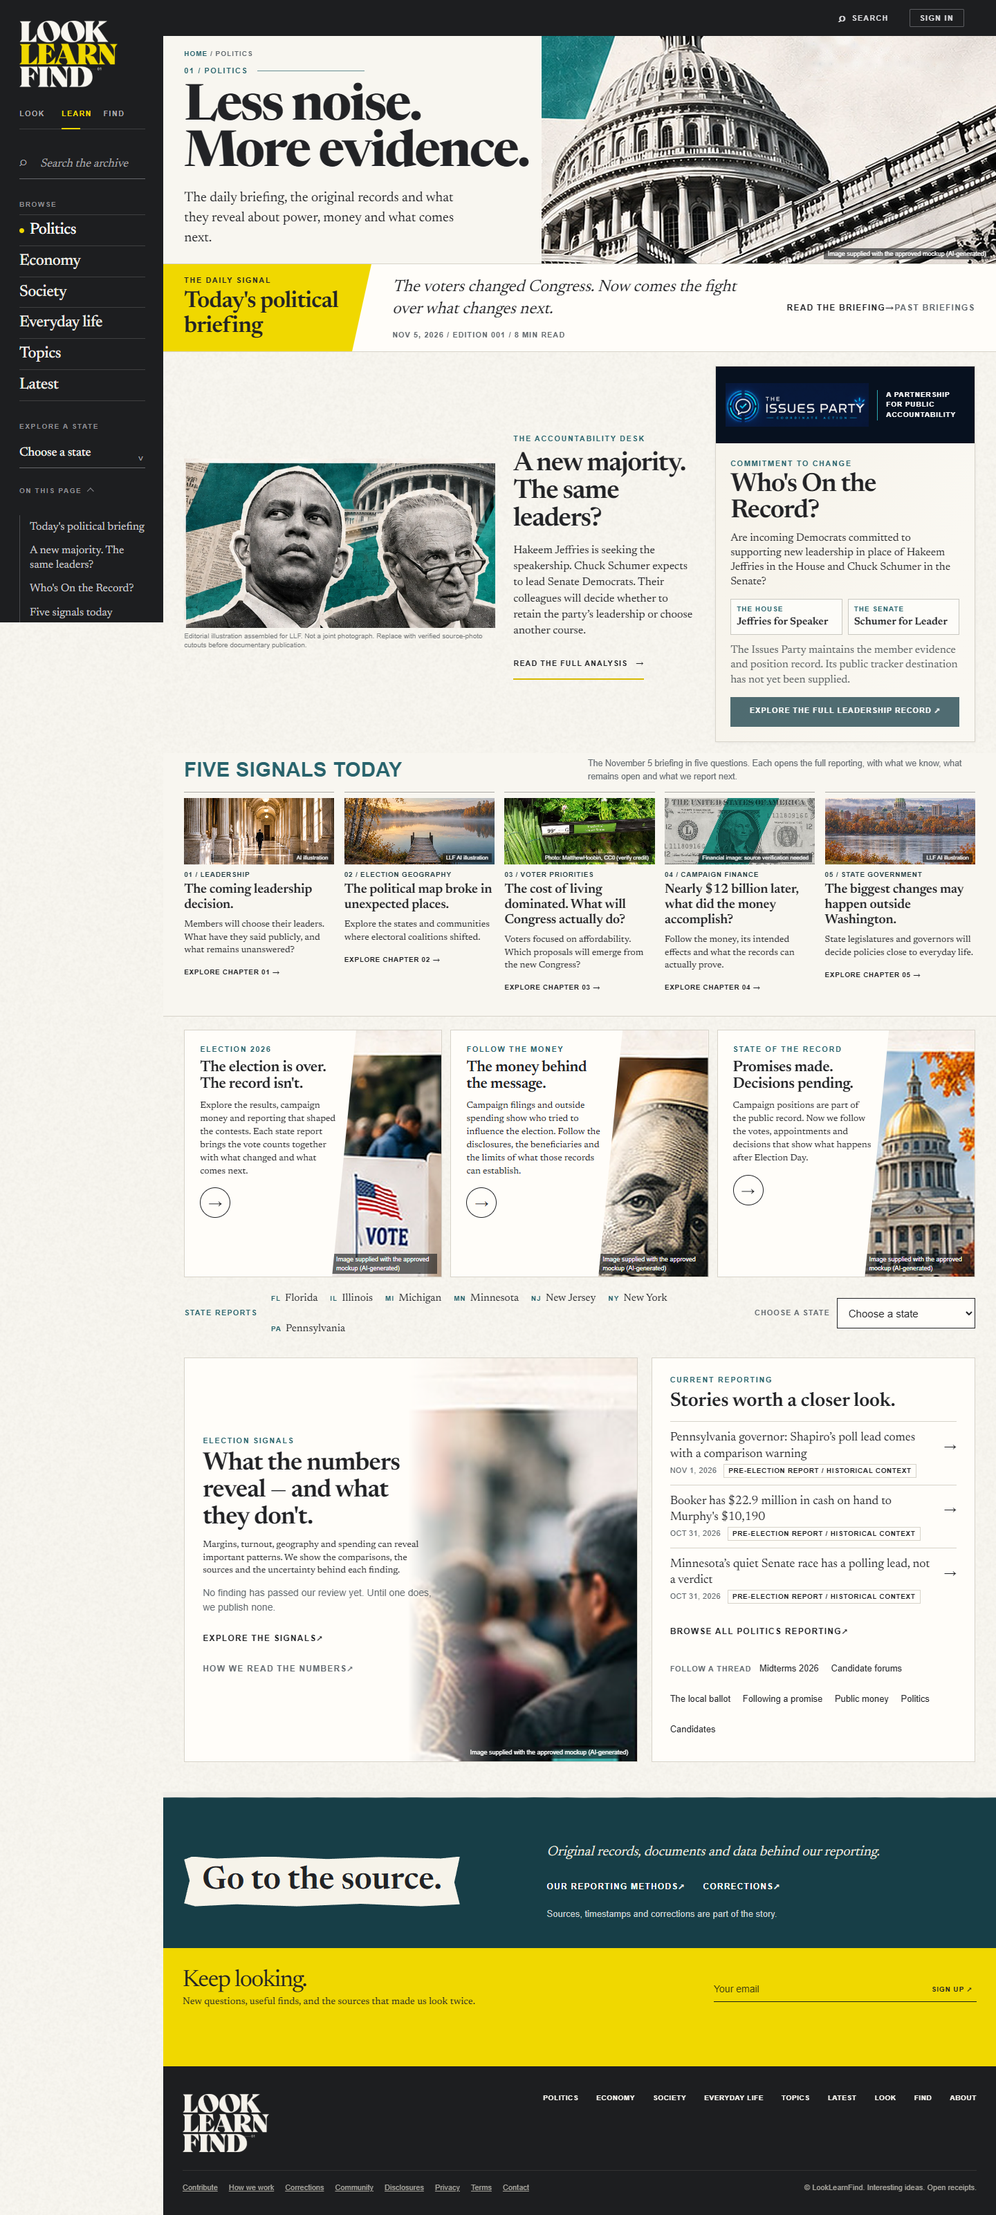
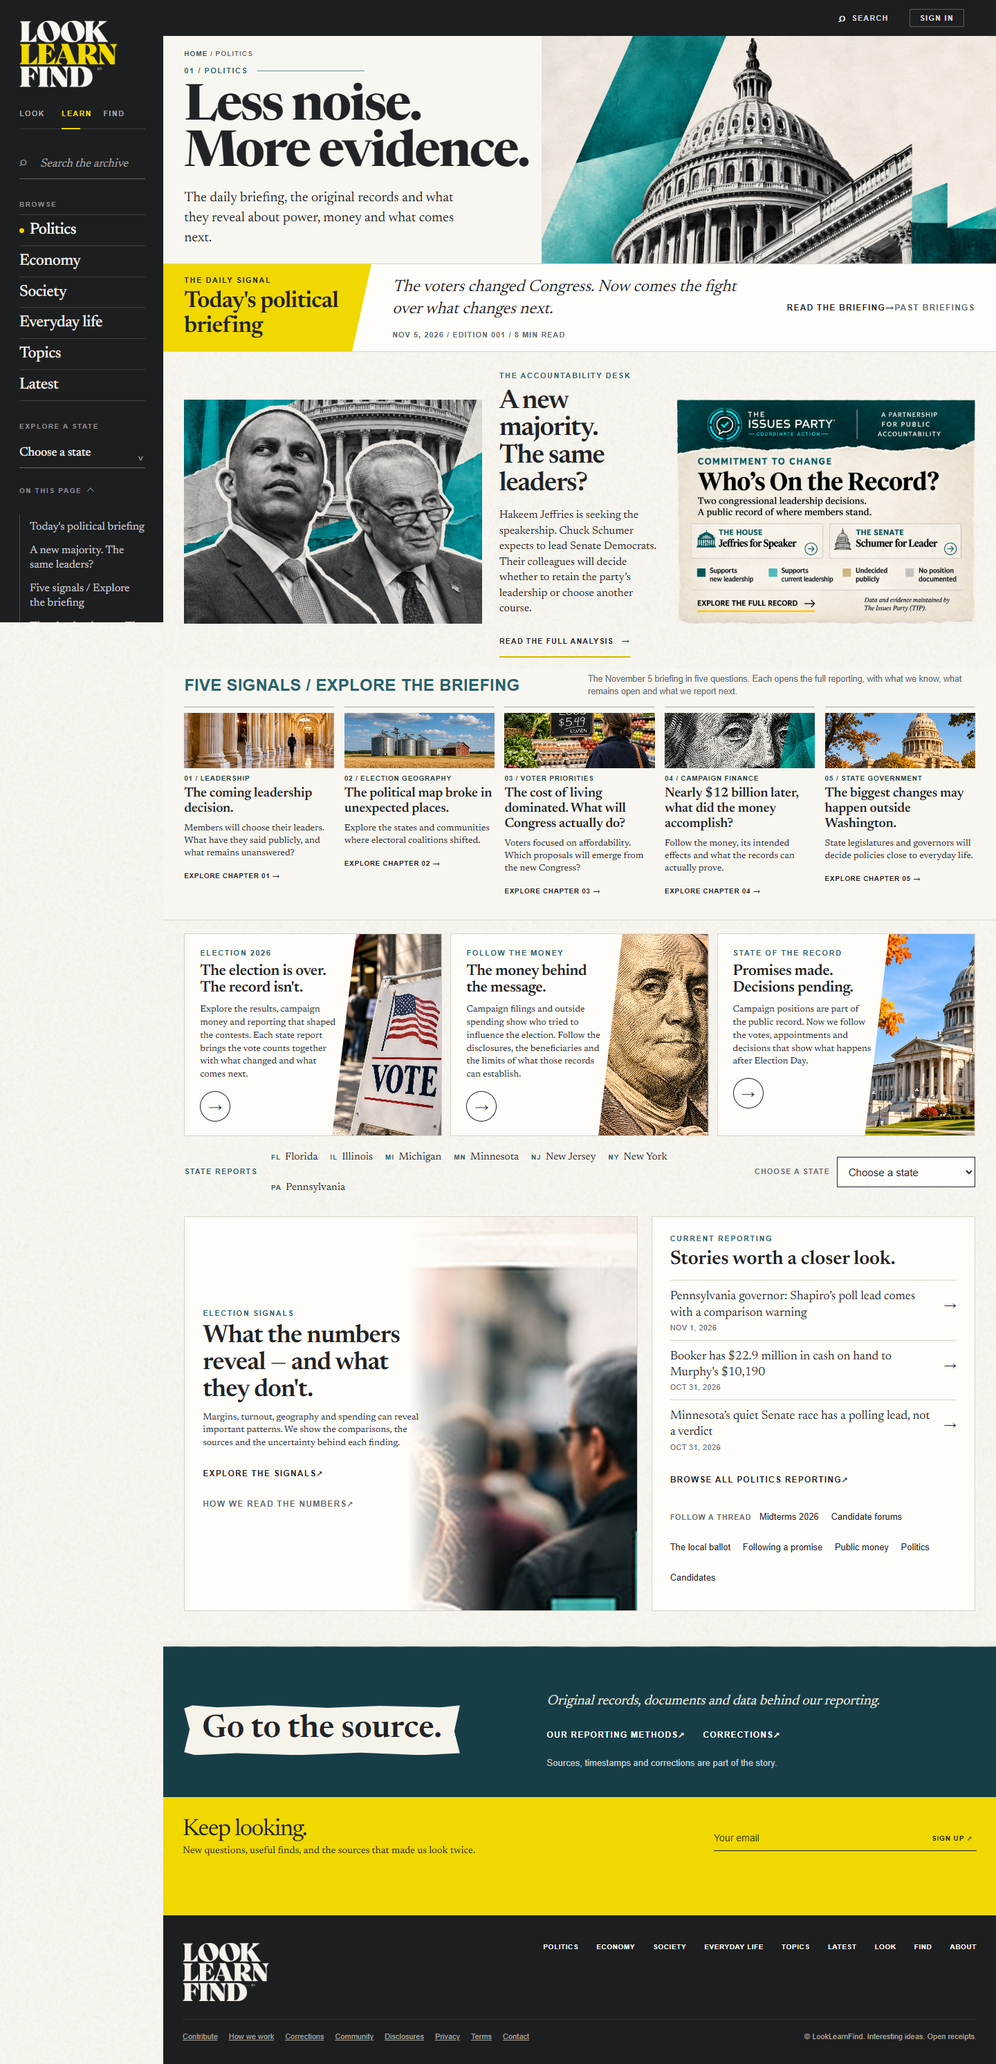
Politics homepage V6: genuine source images (hero, feature, TIP panel, five signals, lower tiles) and V6 stylesheet

Changed region(s): [[0.0, 0.0, 1.0, 0.997], [0.8438, 0.0, 0.875, 0.0312], [0.3438, 0.9658, 0.375, 0.997]]

diff --git a/static/css/politics-homepage-v6.css b/static/css/politics-homepage-v6.css
@@ -32,7 +32,7 @@ body.pol-home .pol-feature-v4 {
 }
 body.pol-home .pol-feature-v4 > * {min-width:0;}
 body.pol-home .pol-feature-v4__photo {margin:0;align-self:stretch;display:flex;flex-direction:column;justify-content:center;}
-body.pol-home .pol-feature-v4__photo img {width:100%;height:auto;aspect-ratio:1737/945;object-fit:cover;display:block;}
+body.pol-home .pol-feature-v4__photo img {width:100%;height:auto;aspect-ratio:1.45;object-fit:cover;display:block;}
 body.pol-home .pol-feature-v4__photo figcaption {color:#777a7b;font:10px/1.3 Arial,sans-serif;margin-top:5px;max-width:80ch;}
 body.pol-home .pol-feature-v4__analysis {padding-top:7px;align-self:center;}
 body.pol-home .pol-feature-v4__analysis .pol-eyebrow {margin:0 0 11px;}
@@ -109,3 +109,53 @@ body.pol-home .pol-tile__d {font-size:13px;}
  body.pol-home .pol-teaser__t,body.pol-home .pol-teaser:first-child .pol-teaser__t {font-size:24px;}
  body.pol-home .pol-teaser__s {font-size:15px;}
 }
+
+/* Approved-reference V5, loaded after site, shell and politics CSS. */
+body.pol-home .pol-feature-v4{grid-template-columns:minmax(0,1.26fr) minmax(0,.68fr) minmax(0,1.26fr);gap:clamp(14px,1.7vw,30px)}
+body.pol-home .pol-feature-v4__photo img{aspect-ratio:507/346;object-fit:cover}
+body.pol-home .pol-feature-v4__analysis h2{font-size:clamp(28px,2.65vw,43px)}
+body.pol-home .pol-feature-v4__analysis>p:not(.pol-eyebrow){font-size:clamp(14px,1.1vw,17px)}
+body.pol-home .pol-feature-v5__tip{background:transparent!important;border:0!important;box-shadow:none!important;align-self:center!important;display:block!important;min-width:0}
+body.pol-home .pol-feature-v5__tip-art{width:100%;height:auto;display:block}
+body.pol-home .pol-feature-v5__status{font:10px/1.35 Arial,sans-serif;color:#6f7779;margin:3px 5px 0;text-align:right}
+body.pol-home .pol-teaser__pic{aspect-ratio:250/92}
+body.pol-home .pol-teaser__pic img{width:100%;height:100%;object-fit:cover;display:block}
+body.pol-home .pol-teasers__head h2{font-size:clamp(20px,1.65vw,25px)}
+body.pol-home .pol-teaser__pic .pol-credit{display:none!important}
+@media(min-width:1400px){body.pol-home .pol-hero__in,body.pol-home .pol-daily__in,body.pol-home .pol-teasers__in,body.pol-home .pol-tiles,body.pol-home .pol-statebar,body.pol-home .pol-duo-row{max-width:none}body.pol-home .pol-feature-v4{width:100%;max-width:none}}
+@media(max-width:1350px){body.pol-home .pol-feature-v4{grid-template-columns:1.2fr .85fr}body.pol-home .pol-feature-v5__tip{grid-column:1/-1;width:min(620px,100%);justify-self:center}}
+@media(max-width:900px){body.pol-home .pol-feature-v4{grid-template-columns:1fr 1fr}}
+.pol-tip-v5-mobile{display:none}
+@media(max-width:640px){
+body.pol-home .pol-feature-v4{grid-template-columns:1fr}body.pol-home .pol-feature-v5__tip{grid-column:1;max-width:515px}
+body.pol-home .pol-feature-v5__tip-art,body.pol-home .pol-feature-v5__status{display:none}
+.pol-tip-v5-mobile{display:block;background:#f2eee5;box-shadow:0 1px 6px #0002}
+.pol-tip-v5-mobile__brand{min-height:87px;background:#075661;color:#fff;padding:10px 14px;display:grid;grid-template-columns:1.65fr 1fr;gap:12px;align-items:center}
+.pol-tip-v5-mobile__brand img{width:100%;height:auto;mix-blend-mode:screen}
+.pol-tip-v5-mobile__brand span{border-left:1px solid #adcbd1;padding-left:10px;font:700 10px/1.35 Arial,sans-serif;letter-spacing:.09em;text-transform:uppercase}
+.pol-tip-v5-mobile__paper{background:linear-gradient(160deg,#f2eee5,#fffdf7 65%,#eae5d9);padding:18px 18px 23px;clip-path:polygon(0 0,4% 1%,8% 0,13% 1%,18% 0,25% 1%,30% 0,37% 1%,44% 0,53% 1%,62% 0,70% 1%,79% 0,86% 1%,94% 0,100% 1%,100% 98%,95% 99%,88% 98%,82% 100%,76% 99%,64% 100%,55% 98%,46% 100%,37% 99%,29% 100%,18% 99%,11% 100%,3% 99%,0 100%)}
+.pol-tip-v5-mobile__eyebrow{font:700 12px Arial,sans-serif!important;letter-spacing:.12em!important;color:#075661!important;text-transform:uppercase;margin:0 0 7px!important}
+.pol-tip-v5-mobile__paper h2{font:700 clamp(29px,8vw,38px)/.98 Georgia,serif;letter-spacing:-.025em;margin:0 0 10px}
+.pol-tip-v5-mobile__paper>p:not(.pol-tip-v5-mobile__eyebrow){font:16px/1.35 Georgia,serif;margin:0 0 16px}
+.pol-tip-v5-mobile__choices{display:grid;grid-template-columns:repeat(2,minmax(0,1fr));gap:6px}
+.pol-tip-v5-mobile__choices>div{border:1px solid #c9c6be;padding:10px 8px;background:#f7f5f0}
+.pol-tip-v5-mobile__choices small{font:700 10px Arial,sans-serif;color:#075661;display:block;letter-spacing:.07em;text-transform:uppercase}
+.pol-tip-v5-mobile__choices strong{font:700 14px Georgia,serif;display:block;margin-top:4px}
+.pol-tip-v5-mobile__legend{display:grid;grid-template-columns:1fr 1fr;gap:10px;margin:17px 0}
+.pol-tip-v5-mobile__legend span{display:flex;align-items:center;gap:6px;font:11px/1.3 Arial,sans-serif}
+.pol-tip-v5-mobile__legend i{width:12px;height:12px;flex:0 0 12px;background:#075661}
+.pol-tip-v5-mobile__legend i.same{background:#4bb9b0}.pol-tip-v5-mobile__legend i.undecided{background:#c6b179}.pol-tip-v5-mobile__legend i.none{background:#bcbdbb}
+.pol-tip-v5-mobile__bottom{border-top:1px solid #bbb9b0;padding-top:12px;display:flex;flex-direction:column;gap:8px}
+.pol-tip-v5-mobile__bottom span{font:700 12px Arial,sans-serif;text-transform:uppercase;border-bottom:2px solid #f0d800;align-self:start;padding-bottom:5px}
+.pol-tip-v5-mobile__bottom em{font:italic 13px Georgia,serif;align-self:end}
+}
+
+/* V6: actual full-resolution generated assets, no tiny screenshot crops */
+body.pol-home .pol-duo__img{width:100%;height:100%;object-fit:cover;object-position:center center;}
+body.pol-home .pol-feature-v4__photo img{width:100%;height:auto;aspect-ratio:4/3;object-fit:cover;}
+body.pol-home .pol-feature-v5__tip-art{display:block;width:100%;height:auto;aspect-ratio:4/3;object-fit:contain;}
+body.pol-home .pol-feature-v5__tip{background:transparent!important;}
+body.pol-home .pol-teaser__pic img{width:100%;height:100%;object-fit:cover;object-position:center;}
+body.pol-home .pol-teaser__pic{aspect-ratio:250/92;overflow:hidden}
+body.pol-home .pol-tile__pic img{width:100%;height:100%;object-fit:cover;}
+@media (max-width: 640px){body.pol-home .pol-duo__img{min-height:220px;}body.pol-home .pol-feature-v4__photo img{aspect-ratio:4/3;}body.pol-home .pol-feature-v5__tip-art{display:none;} }

diff --git a/politics.py b/politics.py
@@ -171,7 +171,7 @@ def hero_duochrome(h):
             f'<div class="pol-hero__text"><div class="breadcrumb"><a href="/">Home</a> / Politics</div>'
             f'<div class="pol-eyebrow pol-eyebrow--rule">{e(h["eyebrow"])}</div><h1 id="pol-h1">{lines}</h1><p class="pol-hero__deck">{e(h["deck"])}</p></div>'
             f'<figure class="pol-duo" data-asset="{e(art["asset_id"])}"><span class="pol-duo__plane" aria-hidden="true"></span>'
-            f'<img class="pol-duo__img" src="{e(art["src"])}" width="{art["width"]}" height="{art["height"]}" alt="{e(_alt(art["alt"], art["credit"]))}" fetchpriority="high">'
+            f'<img class="pol-duo__img" src="{e(art["src"])}" srcset="{e(art["src_small"])} {art["w_small"]}w, {e(art["src"])} {art["width"]}w" sizes="100vw" width="{art["width"]}" height="{art["height"]}" alt="{e(_alt(art["alt"], art["credit"]))}" fetchpriority="high">'
             f'{_fig(_cr(art["credit"]))}</figure></div></section>')
 
 
@@ -208,7 +208,7 @@ def teaser_section(api, d, teasers):
     for t in teasers:
         im = t["image"]
         u = f'/politics/daily/{e(ed["date"])}/#{e(t["target"])}'
-        ss = f'srcset="{e(im["src_small"])} {im["w_small"]}w, {e(im["src"])} {im["w"]}w" sizes="(min-width: 1450px) 19vw, (min-width: 901px) 40vw, 100vw" '
+        ss = f'srcset="{e(im["src_small"])} {im["w_small"]}w, {e(im["src"])} {im["w"]}w" sizes="(max-width:640px) 100vw, (max-width:1100px) 46vw, 29vw" '
         arts += (f'<li class="pol-teaser"><a class="pol-teaser__pic" href="{u}" tabindex="-1" aria-hidden="true">'
                  f'<img class="pol-img--{e(im["treatment"])}" src="{e(im["src"])}" {ss}alt="{e(_alt(im["alt"], im["credit"]))}" loading="lazy" width="{im["w"]}" height="{im["h"]}">'
                  f'{_span(_cr(im["credit"]))}</a>'
@@ -222,41 +222,45 @@ def teaser_section(api, d, teasers):
 
 def accountability_feature(api, a):
     """The Accountability Desk: one three-part feature. The illustration, LLF's own analysis (linking to chapter 01 of the dated edition) and, beside it, the
-    separate Issues Party Commitment to Change panel. The tracker button stays a labelled, inert placeholder until the owner supplies a verified destination."""
+    separate Issues Party Commitment to Change panel: its artwork on wide screens, live text on phones. The record button is inert until a verified tracker URL exists."""
     art, tip = a["art"], a["tip"]
-    c = art["composite"]
+    c, ta, mb = art["composite"], tip["art"], tip["mobile"]
     href = _edition_href(api, "leadership")
     if href:
         link = f'<a class="pol-v4-text-link" href="{e(href)}">{e(a["analysis_cta"])} <span aria-hidden="true">\u2192</span></a>'
     else:
         GATED.append(("accountability", a["analysis_cta"], "edition#leadership"))
         link = ""
-    cta = tip["cta"]
-    if cta.get("href") and cta.get("approved"):
-        tcta = f'<a class="pol-v4-text-link" href="{e(cta["href"])}" rel="noopener">{e(cta["label"])} <span aria-hidden="true">\u2197</span></a>'
-    else:
-        GATED.append(("accountability", cta["label"], "TIP tracker URL not supplied"))
-        tcta = f'<span class="pol-feature-v4__disabled" role="status" aria-label="{e(cta["pending_label"])}">{e(cta["label"])} <span aria-hidden="true">\u2197</span></span>'
-    ch = "".join(f'<div><small>{e(x["label"])}</small><b>{e(x["name"])}</b></div>' for x in tip["chambers"])
-    lg = tip["logo"]
+    GATED.append(("accountability", mb["cta"], "TIP tracker URL not supplied"))
+    ch = "".join(f'<div><small>{e(x["label"])}</small><strong>{e(x["name"])}</strong></div>' for x in mb["chambers"])
+    lg = "".join(f'<span><i class="{e(x["cls"])}"></i>{e(x["label"])}</span>' for x in mb["legend"])
+    sz = "(max-width:900px) 94vw, 43vw"
     return (f'<section class="pol-feature-v4" id="accountability-desk" aria-labelledby="pol-acc-h">'
             f'<figure class="pol-feature-v4__photo" data-assets="{e(c["asset_id"])} {e(art["a"]["asset_id"])} {e(art["b"]["asset_id"])}">'
-            f'<img src="{e(c["src"])}" width="{c["width"]}" height="{c["height"]}" alt="{e(c["alt"])}" loading="eager" fetchpriority="high">'
+            f'<img src="{e(c["src"])}" srcset="{e(c["src_small"])} {c["w_small"]}w, {e(c["src"])} {c["w"]}w" sizes="{sz}" width="{c["width"]}" height="{c["height"]}" alt="{e(c["alt"])}" data-ai="illustration" loading="eager" fetchpriority="high">'
             f'</figure>'
             f'<article class="pol-feature-v4__analysis"><p class="pol-eyebrow">{e(a["eyebrow"])}</p><h2 id="pol-acc-h">{" <br>".join(e(x) for x in a["h2_lines"])}</h2>'
             f'<p>{e(a["deck"])}</p>{link}</article>'
-            f'<aside class="pol-feature-v4__tip" id="commitment-to-change" aria-labelledby="pol-tip-h"><div class="pol-feature-v4__brand">'
-            f'<img src="{e(lg["src"])}" width="{lg["w"]}" height="{lg["h"]}" alt="{e(lg["alt"])}"><span>{e(tip["partnership"])}</span></div>'
-            f'<div class="pol-feature-v4__paper"><p class="pol-eyebrow">{e(tip["eyebrow"])}</p><h2 id="pol-tip-h">{e(tip["h2"])}</h2><p>{e(tip["deck"])}</p>'
-            f'<div class="pol-feature-v4__chambers">{ch}</div>{tcta}</div></aside></section>')
+            f'<aside class="pol-feature-v4__tip pol-feature-v5__tip" id="commitment-to-change" aria-label="{e(mb["eyebrow"])}">'
+            f'<img class="pol-feature-v5__tip-art" src="{e(ta["src"])}" srcset="{e(ta["src_small"])} {ta["w_small"]}w, {e(ta["src"])} {ta["w"]}w" sizes="{sz}" width="{ta["w"]}" height="{ta["h"]}" alt="{e(ta["alt"])}" data-ai="illustration">'
+            f'<div class="pol-tip-v5-mobile"><div class="pol-tip-v5-mobile__brand"><img src="{e(mb["logo"]["src"])}" alt="{e(mb["logo"]["alt"])}"><span>{e(mb["partnership"])}</span></div>'
+            f'<div class="pol-tip-v5-mobile__paper"><p class="pol-tip-v5-mobile__eyebrow">{e(mb["eyebrow"])}</p><h2>{e(mb["h2"])}</h2><p>{e(mb["deck"])}</p>'
+            f'<div class="pol-tip-v5-mobile__choices">{ch}</div><div class="pol-tip-v5-mobile__legend">{lg}</div>'
+            f'<div class="pol-tip-v5-mobile__bottom"><span>{e(mb["cta"])} \u2192</span><em>{e(mb["credit"])}</em></div></div></div></aside></section>')
+
+
+def _tile_img(im, cr, sizes="(max-width:900px) 94vw, 43vw"):
+    ss = f'srcset="{e(im["src_small"])} {im["w_small"]}w, {e(im["src"])} {im["w"]}w" sizes="{sizes}" ' if im.get("src_small") else ""
+    wh = f' width="{im["w"]}" height="{im["h"]}"' if im.get("h") else ""
+    return f'<img class="pol-img--{e(im["treatment"])}" src="{e(im.get("src") or _img(im["key"]))}" {ss}alt="{e(_alt(im.get("alt", ""), cr))}"{wh} loading="lazy">'
 
 
 def tile(api, mid, m, cta_html, extra=""):
-    """A topic tile: text on the paper side, a photograph on the other side cut by a diagonal edge. Natural colour or monochrome, never a blanket filter."""
+    """A topic tile: text on the paper side, a picture on the other side cut by a diagonal edge."""
     im = m["image"]
     cr = im.get("credit") or credit_line(api, im.get("key", ""))
     return (f'<article class="pol-tile" id="{mid}" aria-labelledby="{mid}-h"><div class="pol-tile__t">{_head(m, mid + "-h")}<p class="pol-tile__d">{e(m["deck"])}</p>{cta_html}{extra}</div>'
-            f'<div class="pol-tile__pic"><img class="pol-img--{e(im["treatment"])}" src="{e(im.get("src") or _img(im["key"]))}" alt="{e(_alt("", cr))}" loading="lazy">'
+            f'<div class="pol-tile__pic">{_tile_img(im, cr)}'
             f'{_span(_cr(cr))}</div></article>')
 
 
@@ -308,7 +312,7 @@ def signals_tile(api, m):
     links = prim + _cta(api, "signals", m["method"], "pol-cta pol-cta--quiet")
     return (f'<article class="pol-signals" id="election-signals" aria-labelledby="pol-sig-h"><div class="pol-signals__t">{_head(m, "pol-sig-h")}<p class="pol-tile__d">{e(m["deck"])}</p>'
             f'{("<ul class=pol-sigl>" + body + "</ul>") if items else ""}{none}<p class="pol-signals__links">{links}</p></div>'
-            f'<div class="pol-signals__pic"><img class="pol-img--{e(im["treatment"])}" src="{e(im.get("src") or _img(im["key"]))}" alt="{e(_alt("", cr))}" loading="lazy">'
+            f'<div class="pol-signals__pic">{_tile_img(im, cr)}'
             f'{_span(_cr(cr))}</div></article>')
 
 
@@ -510,5 +514,5 @@ def build(api):
             + state_bar(api, home["election"], hubs)
             + f'<div class="pol-duo-row">{signals_tile(api, home["signals"])}{reporting_list(api, home["reporting"], api["SITE"], api["THREADS"])}</div>'
             + evidence_band(api, home["source"]))
-    shell(home["meta"]["title"], home["meta"]["description"], "/politics/", body, nav="politics", css=("politics", "politics-homepage-v4"), js=("common", "politics"), bodyclass="pol-home")
+    shell(home["meta"]["title"], home["meta"]["description"], "/politics/", body, nav="politics", css=("politics", "politics-homepage-v6"), js=("common", "politics"), bodyclass="pol-home")
     return list(GATED)

diff --git a/tests/test_politics.py b/tests/test_politics.py
@@ -183,7 +183,7 @@ class Built(unittest.TestCase):
         self.assertEqual(self.land.count('class="pol-tab"'), 1); self.assertIn('class="pol-duo"', self.land)
 
     def test_cutouts_use_real_portraits_with_a_caption_that_denies_a_joint_appearance(self):
-        self.assertIn("supplied/leadership.jpg", self.land)
+        self.assertIn("v6/leadership-jeffries-schumer.webp", self.land)
         self.assertNotIn("not a joint photograph", self.land.lower())
 
     def test_historical_context_is_labelled(self):
@@ -204,7 +204,7 @@ class Built(unittest.TestCase):
         p.write_text(self.land.replace("</main>", "<p>The challenger won.</p></main>", 1), encoding="utf-8")
         self.assertTrue(any("election-claim" in x for x in pc.check_pages(d)))
         rows = pc.load_assets()
-        rows["static/img/politics/supplied/leadership.jpg"] = dict(rows["static/img/politics/supplied/leadership.jpg"], usage_status="pending")
+        rows["static/img/politics/v6/leadership-jeffries-schumer.webp"] = dict(rows["static/img/politics/v6/leadership-jeffries-schumer.webp"], usage_status="pending")
         self.assertTrue(any("usage_status" in x for x in pc.check_pages(DIST, assets=rows)))
 
     def test_search_includes_hubs(self):
@@ -331,7 +331,7 @@ class EditionBuilt(unittest.TestCase):
         self.assertNotIn('pol-note', self.h); self.assertNotIn("pol-draftbar", self.h)
     def test_landing_shows_the_live_edition_with_five_signals(self):
         land = (DIST / "politics" / "index.html").read_text(encoding="utf-8")
-        self.assertNotIn("DRAFT PREVIEW", land); self.assertIn("Five signals today", land)
+        self.assertNotIn("DRAFT PREVIEW", land); self.assertIn("Five signals / Explore the briefing", land)
         self.assertIn("/politics/daily/2026-11-05/#leadership", land); self.assertIn("EDITION 001", land)
     def test_five_teasers_follow_the_strip_in_order_with_images_summaries_and_links(self):
         import re
@@ -353,17 +353,17 @@ class EditionBuilt(unittest.TestCase):
         text = re.sub(r"<br\s*/?>", "", land)
         self.assertEqual(text.split("<main", 1)[1].count("A new majority. The same leaders?"), 1)                       # one full leadership feature, not repeated in a teaser
         self.assertEqual(land.count('class="pol-feature-v4"'), 1)
-        for cls in ("pol-feature-v4__photo", "pol-feature-v4__analysis", "pol-feature-v4__tip"):   # illustration, LLF analysis, TIP panel
+        for cls in ("pol-feature-v4__photo", "pol-feature-v4__analysis", "pol-feature-v5__tip", "pol-tip-v5-mobile"):   # illustration, LLF analysis, TIP panel
             self.assertIn(cls, land)
         self.assertIn('href="/politics/daily/2026-11-05/#leadership">Read the full analysis', land)
-        self.assertIn("pol-feature-v4__disabled", land)                                            # TIP tracker stays pending until a verified URL exists
+        self.assertNotIn('href="https://theissuesparty.org', land.split('id="commitment-to-change"', 1)[1].split("</aside>", 1)[0])      # the tracker is not linked until a verified URL exists
         self.assertNotIn("theissuesparty.org", land.split("<main", 1)[1].split("</main>", 1)[0].split('id="election-2026"')[0])
         items = re.findall(r'<li class="pol-teaser">.*?</li>', land, re.S)
         self.assertEqual(len(items), 5); self.assertIn("The coming leadership decision.", items[0])
         for n, it in enumerate(items, 1):
-            m = re.search(r'src="(/img/politics/v4/signal-0%d-[a-z]+\.jpg)' % n, it)
+            m = re.search(r'src="(/img/politics/v6/signal-0%d-[a-z]+\.webp)' % n, it)
             self.assertTrue(m and (ROOT / "static" / m.group(1).lstrip("/")).exists())
-        self.assertIn("politics-homepage-v4.css", land)
+        self.assertIn("politics-homepage-v6.css", land)
 
     def test_content_completeness_every_supplied_block_is_rendered(self):
         import importlib.util

diff --git a/docs/politics/CONTENT_COMPLETENESS_REPORT.md b/docs/politics/CONTENT_COMPLETENESS_REPORT.md
@@ -24,11 +24,11 @@ Not rendered, by design: the draft's "Page UX and navigation" section. It is pro
 
 | # | Homepage title | Links to | Summary rendered | Image present | Target exists | Image rights | Status |
 |---|---|---|---|---|---|---|---|
-| 01 | The coming leadership decision. | `#leadership` | yes | yes | yes | AI-illustration; label kept | owner_supplied |
-| 02 | The political map broke in unexpected places. | `#geography` | yes | yes | yes | AI-illustration; label kept | owner_supplied |
-| 03 | The cost of living dominated. What will Congress actually do? | `#voters` | yes | yes | yes | verify original rights before publishing | owner_supplied |
-| 04 | Nearly $12 billion later, what did the money accomplish? | `#money` | yes | yes | yes | verify original rights before publishing | owner_supplied |
-| 05 | The biggest changes may happen outside Washington. | `#states` | yes | yes | yes | AI-illustration; label kept | owner_supplied |
+| 01 | The coming leadership decision. | `#leadership` | yes | yes | yes | Owner-supplied for use on the site | owner_supplied |
+| 02 | The political map broke in unexpected places. | `#geography` | yes | yes | yes | Owner-supplied for use on the site | owner_supplied |
+| 03 | The cost of living dominated. What will Congress actually do? | `#voters` | yes | yes | yes | Owner-supplied for use on the site | owner_supplied |
+| 04 | Nearly $12 billion later, what did the money accomplish? | `#money` | yes | yes | yes | Owner-supplied for use on the site | owner_supplied |
+| 05 | The biggest changes may happen outside Washington. | `#states` | yes | yes | yes | Owner-supplied for use on the site | owner_supplied |
 
 Homepage teaser titles 02 and 03 follow the owner's directive; the briefing keeps the draft's own wording (`The political map broke in unexpected places`, `The cost of living dominated. What will Congress actually do?`). Teaser summaries are the draft's own teaser paragraphs, unchanged.
 
